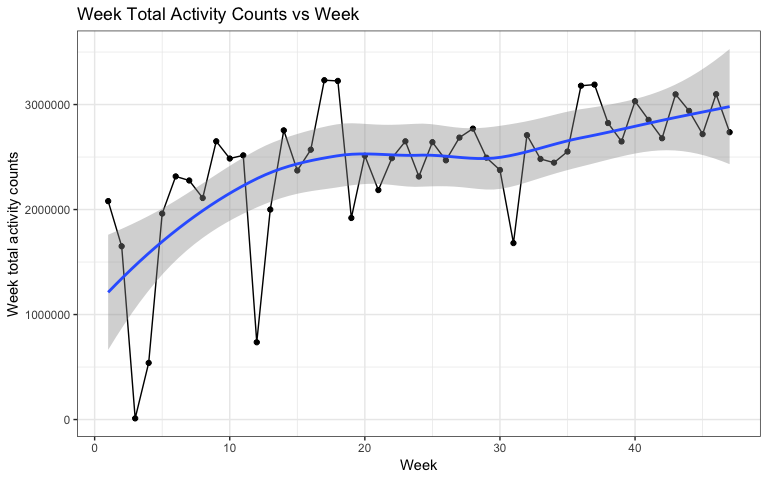
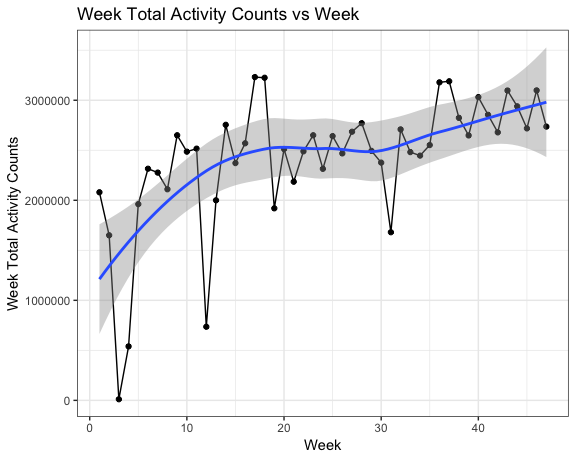
24-hour profiles

Changed region(s): [[0.0, 0.0, 1.0, 0.9435], [0.5, 0.9435, 0.5938, 1.0]]

diff --git a/p8105_mtp_jl5297.md b/p8105_mtp_jl5297.md
@@ -1,12 +1,12 @@
 p8105\_mtp\_jl5297
 ================
-JunLu
+Jun Lu
 10/16/2018
 
 Overview
 --------
 
-This document conducts analyses focused on understanding patterns of physical activity of a patient over 47 weeks. The data for this project was collected on a 63 year-old male with BMI 25, who was admitted to the Advanced Cardiac Care Center of Columbia University Medical Center and diagnosed with congestive heart failure. He wore an accelerometerdevice that continuously recorded physical activity for several months.
+This document conducts analyses focused on understanding patterns of physical activity of a participant over 47 weeks. The data for this project was collected on a 63 year-old male with BMI 25, who was admitted to the Advanced Cardiac Care Center of Columbia University Medical Center and diagnosed with congestive heart failure. He wore an accelerometerdevice that continuously recorded physical activity for several months. Our data came from this accelerometerdevice.
 
 All analyses in this document are based on data in “p8105\_mtp\_data.csv”.
 
@@ -30,12 +30,66 @@ str(activity_df)
     ##  $ minute         : int  1 2 3 4 5 6 7 8 9 10 ...
     ##  $ activity_counts: num  1 1 1 1 1 1 1 1 1 1 ...
 
-We load the data from “p8105\_mtp\_data.csv” and use `gather` to go from wide to long formats. Some variables(`minute` and `day`) are transformed into integer and factor as necessary. There are 473760 observations and 4 variables.
+We load the data from “p8105\_mtp\_data.csv” and use `gather` to go from wide to long formats. Two variables(`minute` and `day`) are transformed into integer and factor as necessary. And we arrange it by week, day and minute. There are 473760 observations and 4 variables.
 
 -   `week`: Week of observation
--   `day`: Day of week
+-   `day`: Day of the week
 -   `minute`: Minute of observation
--   `activity_counts`: Electrical signals value in one minute epochs that are a proxy for acceleration
+-   `activity_counts`: Voltage signals value in one minute epochs that are a proxy for acceleration
+
+Exploratory analysis
+--------------------
+
+### Density plot of activity counts
+
+``` r
+activity_df %>% 
+    ggplot(aes(x = activity_counts)) +
+    geom_density() +
+    labs(
+        title = "Density Plot of Activity Counts",
+        x = "Activity Counts/Minute",
+        y = "Density"
+    )
+```
+
+<img src="p8105_mtp_jl5297_files/figure-markdown_github/unnamed-chunk-2-1.png" width="80%" style="display: block; margin: auto;" />
+
+-   From the density plot, wen can see the distribution of `activity_counts` is extremely skewed where some points are much larger than the bulk of the data. The range of activity counts is (1, 10417) and the mean is 240.34. When this participant has no activity, activity counts equal to 1
+
+### Find days with no activity
+
+``` r
+activity_df %>% 
+    group_by(week, day) %>% 
+    summarize(total_activity = sum(activity_counts)) %>%  
+    filter(total_activity == 1440) 
+```
+
+    ## # A tibble: 18 x 3
+    ## # Groups:   week [10]
+    ##     week day       total_activity
+    ##    <int> <fct>              <dbl>
+    ##  1     1 Saturday            1440
+    ##  2     2 Sunday              1440
+    ##  3     3 Sunday              1440
+    ##  4     3 Wednesday           1440
+    ##  5     3 Thursday            1440
+    ##  6     3 Friday              1440
+    ##  7     4 Monday              1440
+    ##  8     4 Wednesday           1440
+    ##  9     4 Thursday            1440
+    ## 10     4 Friday              1440
+    ## 11     8 Friday              1440
+    ## 12    12 Sunday              1440
+    ## 13    12 Friday              1440
+    ## 14    12 Saturday            1440
+    ## 15    13 Monday              1440
+    ## 16    19 Saturday            1440
+    ## 17    20 Saturday            1440
+    ## 18    32 Monday              1440
+
+-   We find that there are 18 days that activity counts shows no activity. Those days are mainly in week 3, 4 and 12.
 
 Total activity analysis
 -----------------------
@@ -53,11 +107,11 @@ activity_df %>%
     labs(
         title = "Week Total Activity Counts vs Week",
         x = "Week",
-        y = "Week total activity counts"
+        y = "Week Total Activity Counts"
     )
 ```
 
-<img src="p8105_mtp_jl5297_files/figure-markdown_github/total_activity_trend-1.png" style="display: block; margin: auto;" /> We aggregate accross minutes of each week to create a total activity variable and then make a scatterplot of total activity over weeks. While there has been large variability, the total activity has an upward trend over weeks. We can infer that this patient became more active over time. Notably, the total activity counts of the third week is extremely low.
+<img src="p8105_mtp_jl5297_files/figure-markdown_github/total_activity_trend-1.png" width="80%" style="display: block; margin: auto;" /> We aggregate accross minutes of each week to create a total activity variable and then make a scatterplot of total activity over weeks. While there has been large variability, the total activity has an upward trend over weeks. We can infer that this participant became more active over time.
 
 ### 2. The effect of day of the week on total activity
 
@@ -74,8 +128,8 @@ day_total_boxplot =
     theme(legend.position = "right") +
     labs(
         title = "Day Total Activity for Different Days of the Week",
-        x = "Day of the week",
-        y = "Day total activity"
+        x = "Day of the Week",
+        y = "Day Total Activity Counts"
     )
 
 
@@ -88,23 +142,69 @@ day_total_difference =
     theme(legend.position = "right") +
     labs(
         title = "Difference Values for Different Days of the Week",
-        x = "Day of the week",
+        x = "Day of the Week",
         y = "Difference Values"
     )
     
 day_total_boxplot + day_total_difference + plot_layout(ncol = 1)
 ```
 
-<img src="p8105_mtp_jl5297_files/figure-markdown_github/day_effect-1.png" style="display: block; margin: auto;" />
+<img src="p8105_mtp_jl5297_files/figure-markdown_github/day_effect-1.png" width="80%" style="display: block; margin: auto;" />
 
 -   We aggregate accross minutes of each day to create a day total activity variable.
 -   In isolation: We make boxplots of total activity of different days of the week to examine the possibility that day of the week affects activity.
--   In addition to the effect of time: In order to remove the effect of the time, we calculate difference values between day total activity and the mean of day total activity in corresponding week. And then we make boxplots of these difference values of of different days of the week in another panel.
+-   In addition to the effect of time: In order to remove the effect of the time, we calculate difference values between day total activity and the mean of day total activity of the week(day total activity - the mean of day total activity of the week). And then we make boxplots of these difference values of of different days of the week in another panel.
 
-As ranges of boxplots overlap and their medians are slightly different(both in isolation and in addition to the effect of time), there is no enough evidence that that day of the week affects total activity. But Friday tends to have the largest day total activity among the week.
+As ranges of boxplots overlap and their medians are only slightly different(both in isolation and in addition to the effect of time), there is no enough evidence that that day of the week affects total activity.
 
-Distribution of activity counts
--------------------------------
+Distribution of activity counts by hour
+---------------------------------------
+
+``` r
+activity_df %>% 
+    mutate(hour = (minute - 1) %/% 60,
+           activity_counts = log(activity_counts)) %>%
+    ggplot(aes(x = activity_counts, y = factor(hour))) +
+    geom_density_ridges(scale = 4) +
+    geom_vline(xintercept = 0, color = "red") +
+    geom_vline(xintercept = 6, color = "blue") +
+    labs(
+        title = "Density Plot of Log (Activity Counts) by Hour",
+        x = "Log (activity counts)",
+        y = "Hour of the day"
+    ) 
+```
+
+<img src="p8105_mtp_jl5297_files/figure-markdown_github/unnamed-chunk-4-1.png" width="80%" style="display: block; margin: auto;" />
+
+Because the original distribution is quite skewed, we make a density plot of log(activity counts) in the full dataset by hour. From the plot we can see this participant tends to have activity from 7 a. m. to 10 p. m.
 
 24-hour activity profiles analysis
 ----------------------------------
+
+``` r
+activity_df %>% 
+    mutate(period = week %/% 16,
+           period = factor(period, levels = c(0, 1, 2), labels = c("1-15 weeks", "16-31 weeks", "32-47 weeks")),
+           time = minute %/% 20 * 20 / 60) %>% 
+    group_by(period, week, day, time) %>% 
+    summarize(activity_counts = sum(activity_counts)) %>% 
+    ggplot(aes(x = time, y = activity_counts, color = week)) +
+    viridis::scale_color_viridis() +
+    geom_line(aes(group = week), size = 0.1) +
+    facet_grid(period ~ day) +
+    geom_smooth(size = 0.5, color = "red") +
+    scale_x_continuous(breaks = seq(0, 24, by = 6)) +
+    labs(
+        title = "24-Hour Activity Profiles for Each Day",
+        x = "Hour of the Day",
+        y = "Activity Counts/ 20 Minutes"
+    )
+```
+
+<img src="p8105_mtp_jl5297_files/figure-markdown_github/24-hour-1.png" width="80%" style="display: block; margin: auto;" /> We divide weeks into 3 periods(1-15, 16-31, 32-47 weeks) to show the effect of the time. And we aggregate data into 20-minute epochs to make plots more clear. Then we make a polt which shows 24-hour activity profiles for each day. In this plot, we use `facet_grid` to form a matrix of panels defined by period and day of the week. Smooth estimates of mean activity profiles of each panel are emphasized as red bold curves.
+
+From this plot, we find that:
+
+-   On Sunday, this participant tends to have high activity around 9 a. m. and 16 p. m.
+-   On Friday, this participant tends to have high activity around 8 p. m.
